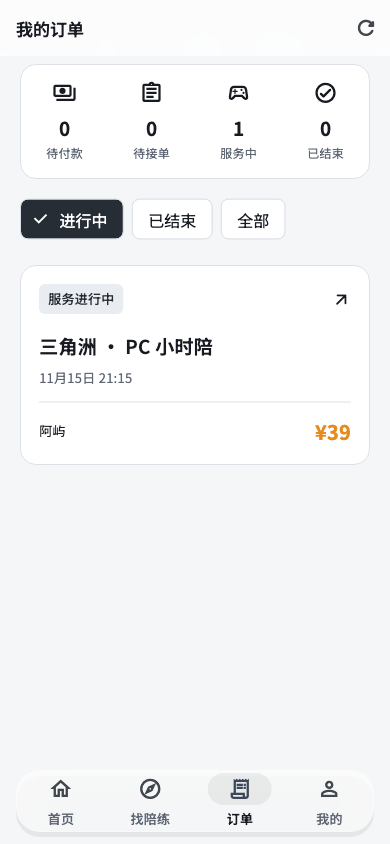
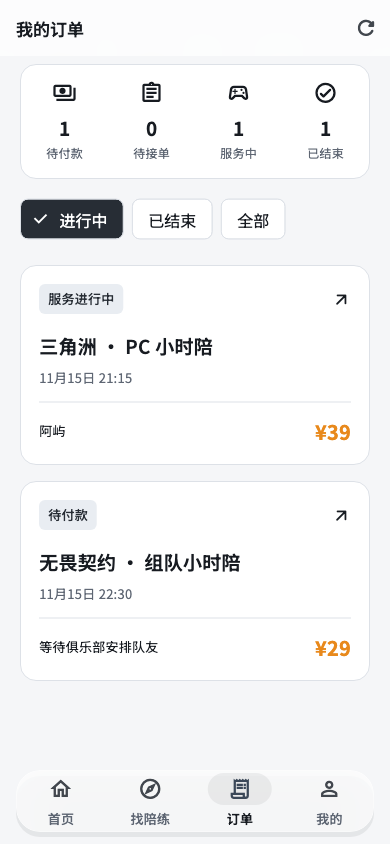
feat(app): 客户端演示订单补齐待付款/服务中/已结束三类状态，兼容数组 fixture 并刷新截图基准

diff --git a/apps/mobile/test/review_screens_test.dart b/apps/mobile/test/review_screens_test.dart
@@ -33,14 +33,15 @@ void main() {
       );
       await repo.load();
       // Exported from the API's real create -> assign -> accept -> start flow.
+      final raw = jsonDecode(
+        await rootBundle.loadString(
+          'assets/demo/order-in-progress.json',
+          cache: false,
+        ),
+      );
       repo.orders = [
-        Json.from(
-          jsonDecode(
-            await rootBundle.loadString(
-              'assets/demo/order-in-progress.json',
-              cache: false,
-            ),
-          ),
+        Map<String, dynamic>.from(
+          (raw is List ? raw.first : raw) as Map,
         ),
       ];
       await tester.runAsync(primeCatalogMedia);

diff --git a/apps/mobile/lib/repository.dart b/apps/mobile/lib/repository.dart
@@ -439,15 +439,15 @@ class ClubRepository extends ChangeNotifier {
 
   Future<void> loadDemoPreview() async {
     if (!isLocal || isProduction || orders.isNotEmpty) return;
-    final fixture = Json.from(
-      jsonDecode(
-        await rootBundle.loadString(
-          'assets/demo/order-in-progress.json',
-          cache: false,
-        ),
+    final raw = jsonDecode(
+      await rootBundle.loadString(
+        'assets/demo/order-in-progress.json',
+        cache: false,
       ),
     );
-    orders = [fixture];
+    orders = (raw is List ? raw : [raw])
+        .map((e) => Map<String, dynamic>.from(e as Map))
+        .toList();
     notifyListeners();
   }
 
